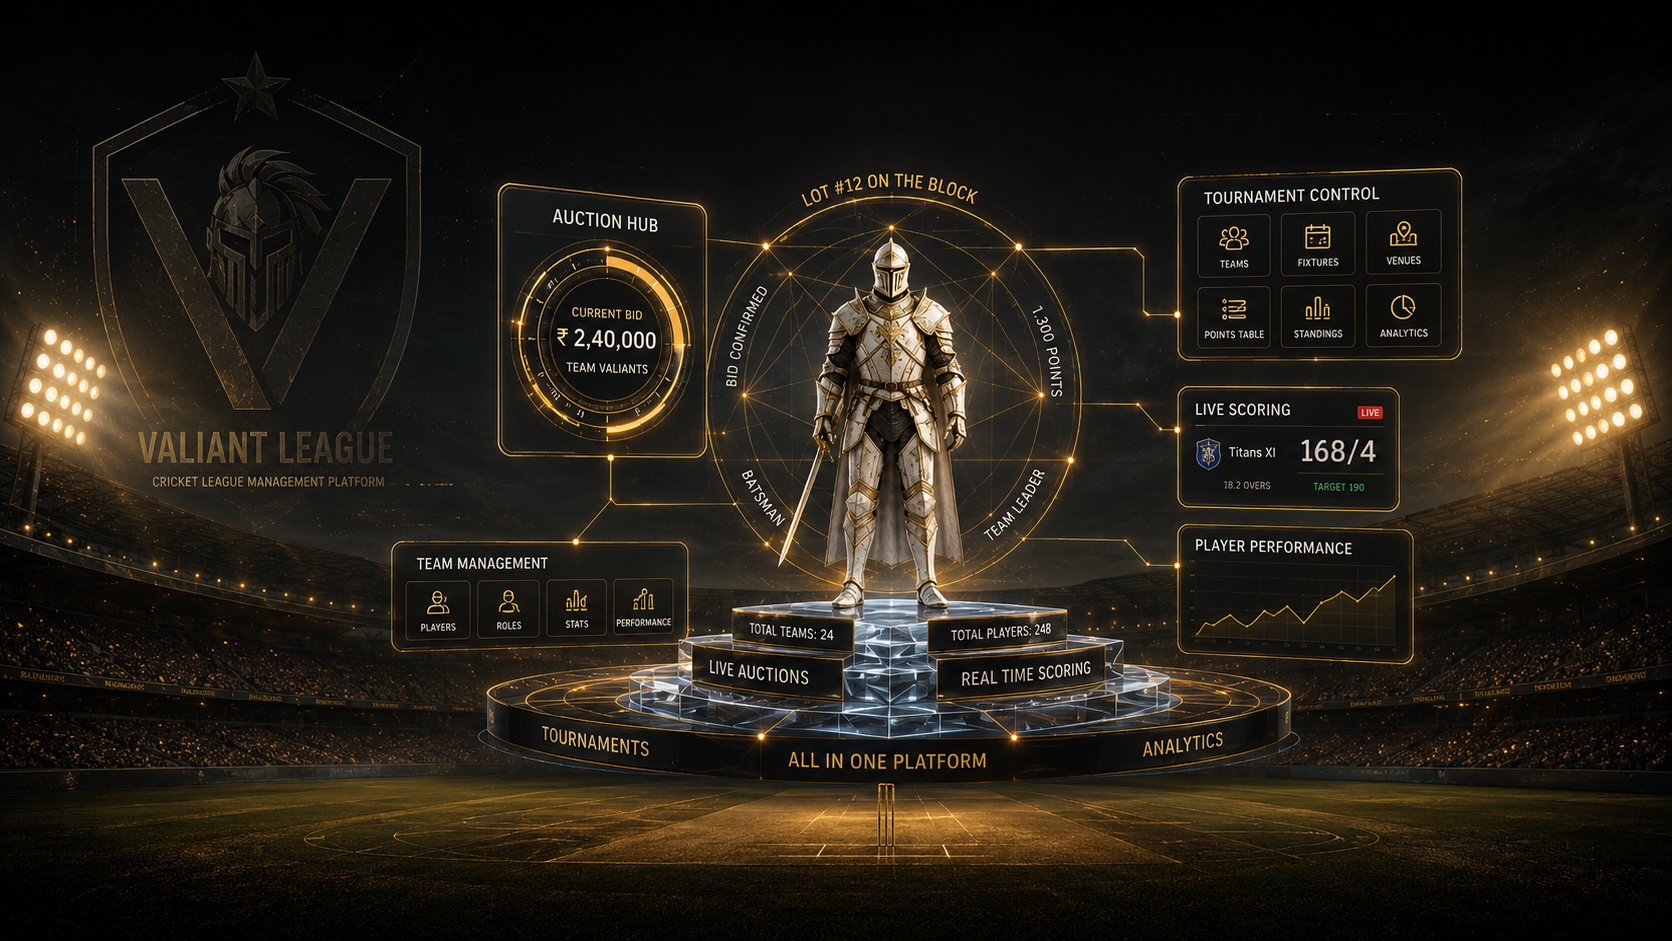
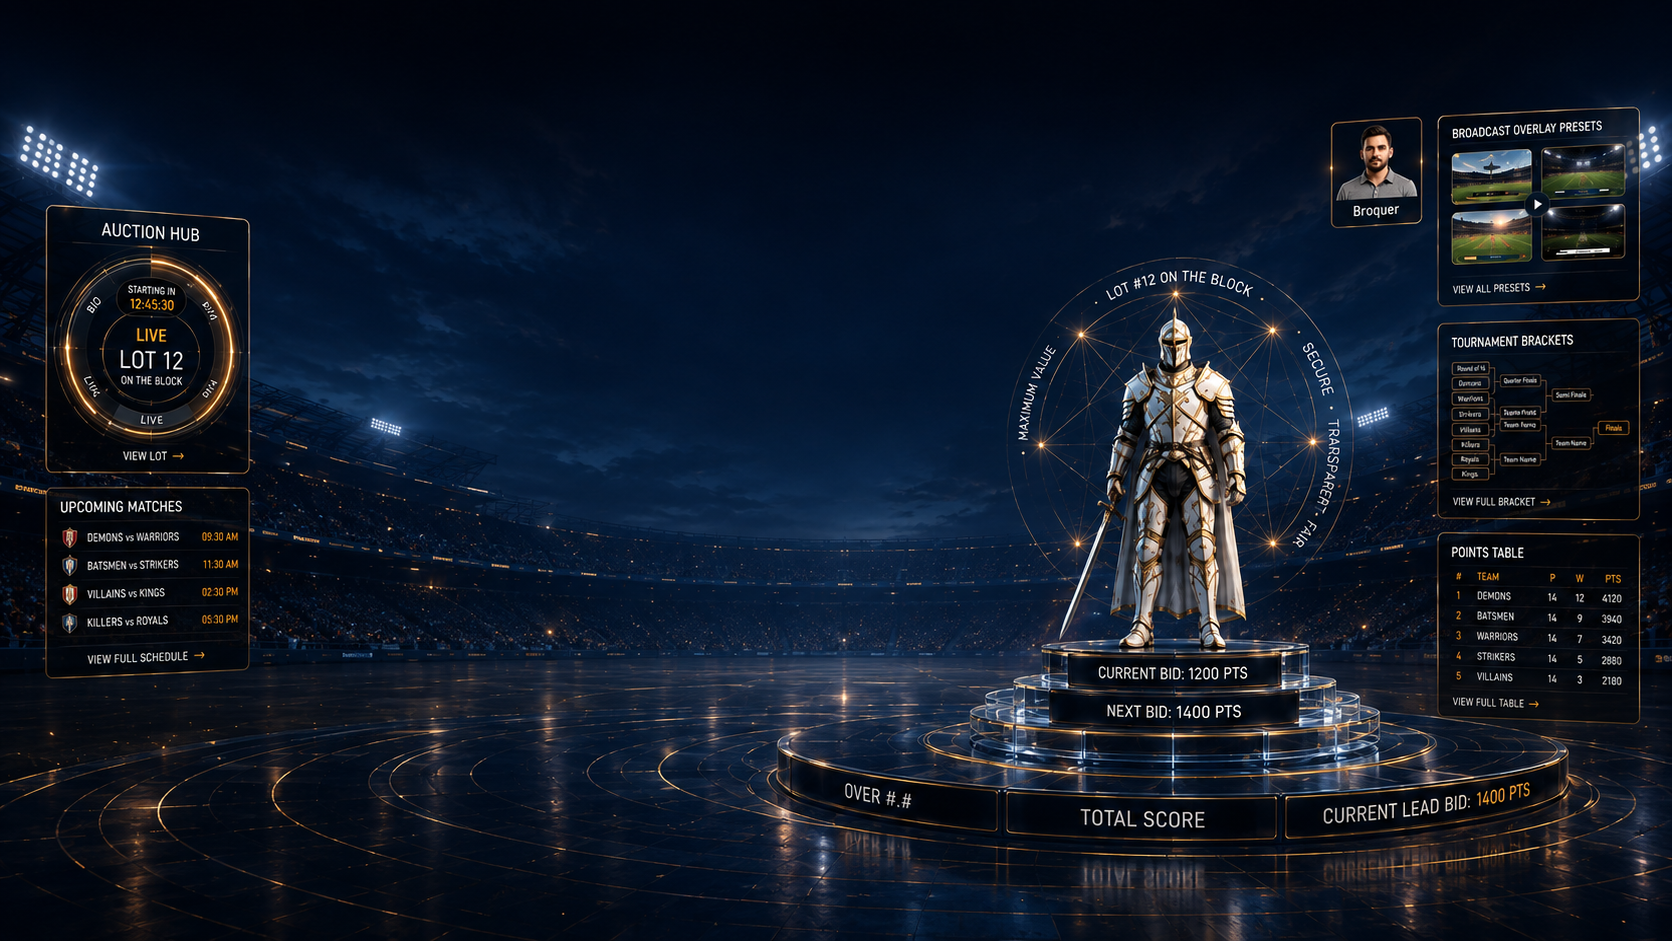
asf

diff --git a/components/landing/hero-image-carousel.tsx b/components/landing/hero-image-carousel.tsx
@@ -19,15 +19,17 @@ interface HeroSlide {
 // ─────────────────────────────────────────────────────────────
 const SLIDES: HeroSlide[] = [
   {
+    desktop: "/images/landing-image-1.png",
+    mobile: "/images/landing-image-1-mobile.png",
+    alt: "Auctioneer at work",
+  },    
+    {
     desktop: "/images/landing-image.png",
     mobile: "/images/landing-image-mobile.png",
     alt: "Valiant League background",
   },
-  {
-    desktop: "/images/landing-image-1.png",
-    mobile: "/images/landing-image-1-mobile.png",
-    alt: "Auctioneer at work",
-  }
+
+ 
   // Add more slides here later, e.g.:
   // {
   //   desktop: "/images/landing-image-2.png",
@@ -37,7 +39,7 @@ const SLIDES: HeroSlide[] = [
 ]
 
 // Milliseconds between transitions.
-const INTERVAL_MS = 5000
+const INTERVAL_MS = 15000
 // Pause auto-advance while the tab is hidden.
 const PAUSE_WHEN_HIDDEN = true
 
